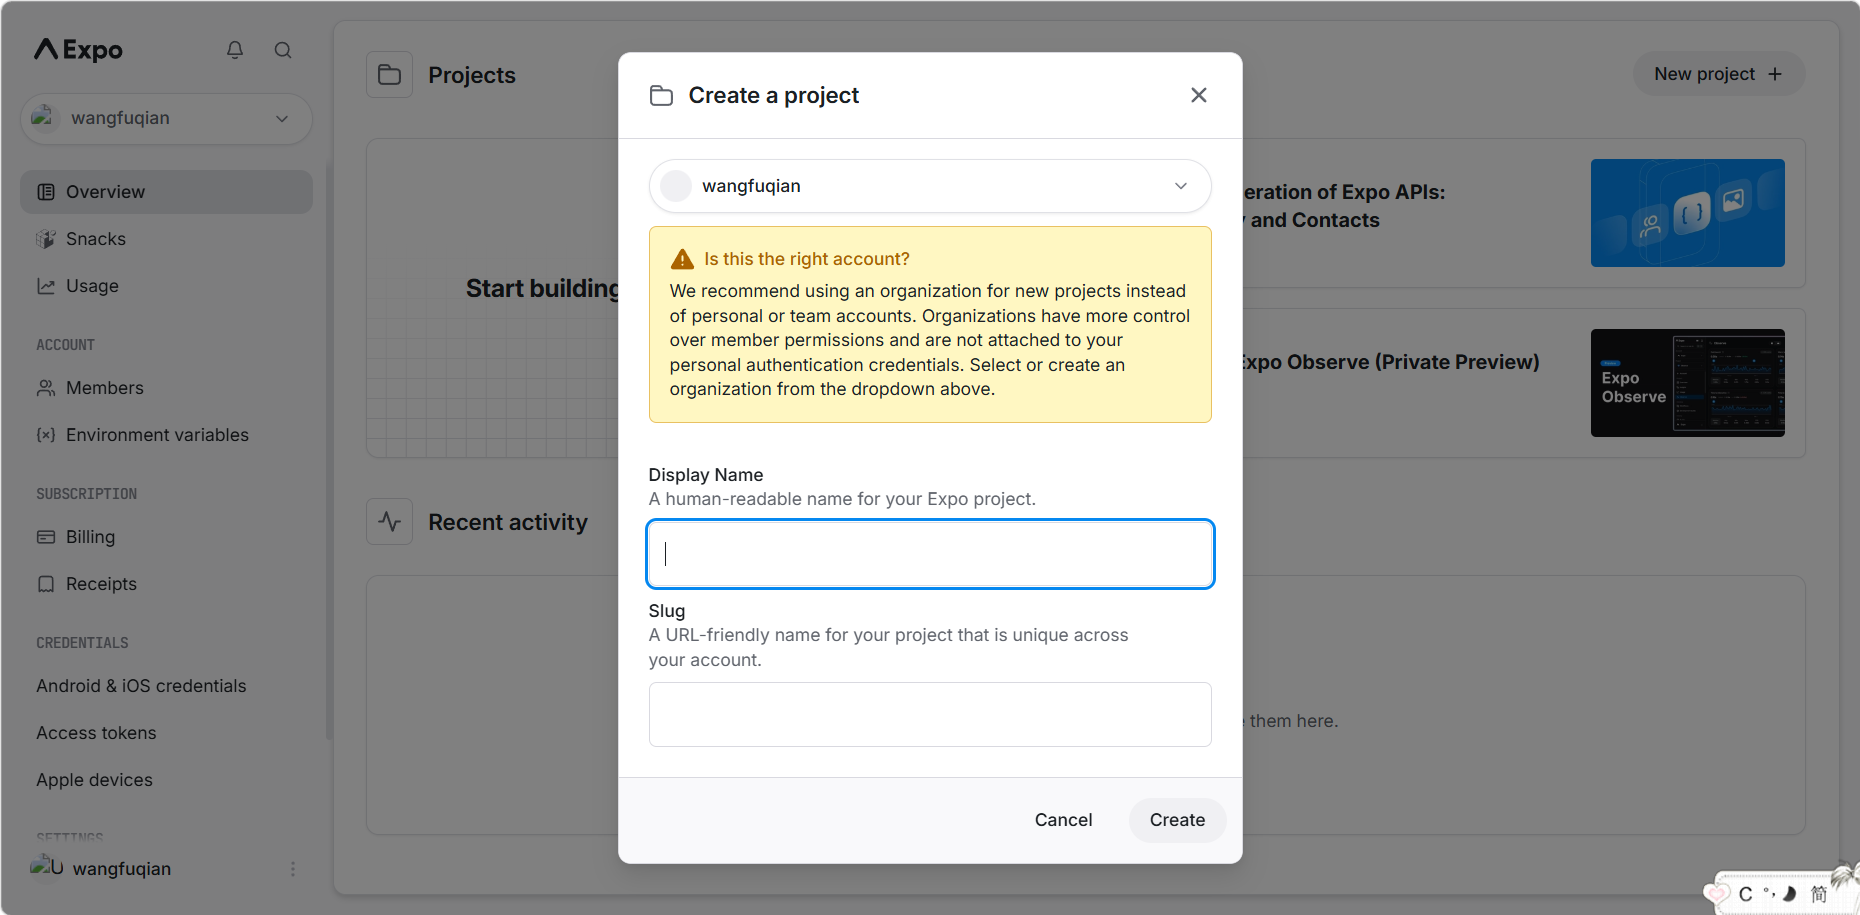
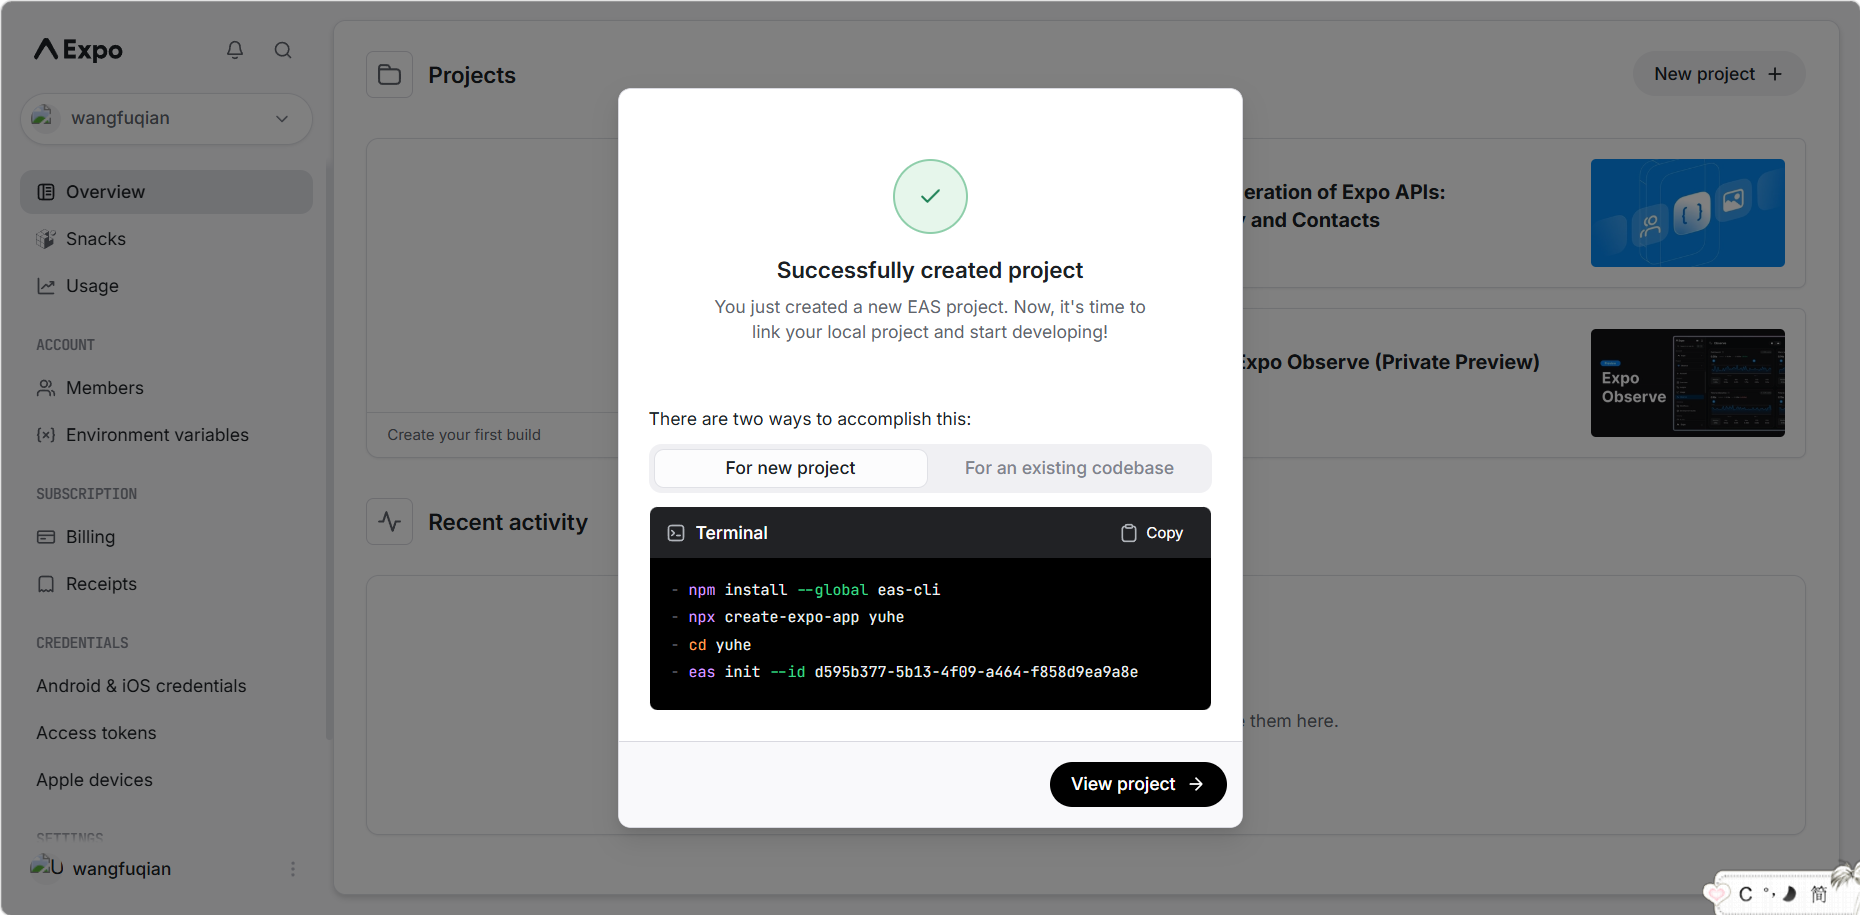
feat: 配置 Expo 项目 ID 并准备构建
- Project ID: d595b377-5b13-4f09-a464-f858d9ea9a8e
- app.config.ts 已更新
- 等待用户在 Expo 网页上构建 APK

diff --git a/client/app.config.ts b/client/app.config.ts
@@ -96,7 +96,7 @@ export default ({ config }: ConfigContext): ExpoConfig => {
     },
     "extra": {
       "eas": {
-        "projectId": "your-project-id-here"
+        "projectId": "d595b377-5b13-4f09-a464-f858d9ea9a8e"
       }
     }
   }
